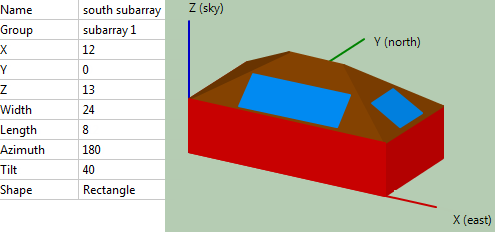
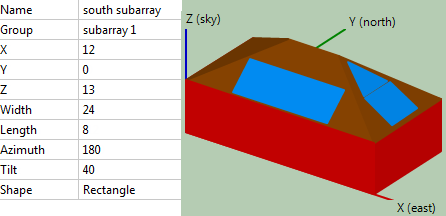
Fix box properties screenshot, and revise active surface property to better explain group name property

diff --git a/vc2013_wx3/shadecalc/help/zoom_index.js b/vc2013_wx3/shadecalc/help/zoom_index.js
@@ -1,15 +1,15 @@
 dictwords = ["scene 0 94 183 1 40 45 2 18 40 3 26 6 4 18 12 5 54 62 7 84 126 8 34 168 10 18 12 12 26 10 13 99 94 14 18 10 15 60 59 16 26 36 17 26 20 18 66 31 20 10 1 21 26 22 23 18 10 24 10 16 25 55 30 26 79 62 27 40 46 28 68 190",
-	"the 0 104 62 1 112 62 2 66 63 3 89 62 4 40 30 5 104 190 6 47 30 7 242 126 8 67 190 9 54 28 10 40 30 11 40 28 12 40 22 13 175 63 14 40 30 15 134 63 16 154 62 17 47 28 18 120 127 19 104 63 20 10 8 21 140 63 22 89 62 23 181 127 24 60 14 25 95 30 26 61 60 27 148 126 28 147 190",
+	"the 0 104 62 1 112 62 2 66 63 3 89 62 4 40 30 5 104 190 6 47 30 7 245 126 8 67 190 9 54 28 10 40 30 11 40 28 12 40 22 13 175 63 14 40 30 15 134 63 16 154 62 17 47 28 18 120 127 19 104 63 20 10 8 21 140 63 22 89 62 23 181 127 24 60 14 25 95 30 26 61 60 27 148 126 28 147 190",
 	"view 0 40 37 1 18 12 3 10 4 4 33 29 5 48 190 6 10 8 7 60 62 9 10 16 10 33 13 13 18 24 14 10 4 15 18 1 16 40 36 18 26 12 20 10 4 21 40 50 22 26 20 24 26 20 25 33 30 26 33 6 27 48 38",
 	"gives 0 10 32 4 10 16 10 10 8",
-	"you 0 18 34 1 40 34 2 33 43 3 18 24 4 26 28 5 10 32 6 10 16 7 60 126 9 10 32 10 18 12 11 26 44 13 47 82 15 10 32 16 54 125 17 10 8 19 26 18 21 47 116 22 10 32 23 60 53 24 10 32 25 26 24 27 47 106 28 10 16",
+	"you 0 18 34 1 40 34 2 33 43 3 18 24 4 26 28 5 10 32 6 10 16 7 60 127 9 10 32 10 18 12 11 26 44 13 47 82 15 10 32 16 54 125 17 10 8 19 26 18 21 47 116 22 10 32 23 60 53 24 10 32 25 26 24 27 47 106 28 10 16",
 	"three-dimensional 0 10 32 5 10 32 18 33 44",
 	"representation 0 10 32 5 10 32",
 	"use 0 10 32 2 10 32 3 10 16 4 10 4 5 26 28 7 26 25 10 10 4 11 10 32 14 18 9 15 18 34 16 33 32 18 27 35 19 26 41 21 33 48 23 74 220 27 41 206 28 10 32",
 	"add 0 10 32 1 34 232 7 10 64 14 18 12 18 26 10 19 10 2 25 41 180 27 10 64",
 	"shading 0 10 32 1 10 16 2 66 47 7 54 90 13 32 197 14 18 5 17 10 16 18 47 62 23 78 55 25 48 165",
-	"and 0 72 62 1 47 30 2 18 36 3 10 16 4 40 15 5 60 28 6 10 16 7 136 127 8 48 30 9 26 160 10 26 6 11 10 8 13 124 127 14 18 5 15 66 30 16 54 46 17 33 170 18 89 62 19 40 60 20 18 6 21 40 42 22 10 2 23 120 111 24 26 24 25 18 6 26 36 56 27 40 26 28 89 252",
-	"active 0 35 58 1 99 255 2 18 10 7 90 112 13 100 127 14 10 4 18 33 22 22 10 16 23 40 60",
+	"and 0 72 62 1 47 30 2 18 36 3 10 16 4 40 15 5 60 28 6 10 16 7 140 127 8 48 30 9 26 160 10 26 6 11 10 8 13 124 127 14 18 5 15 66 30 16 54 46 17 33 170 18 89 62 19 40 60 20 18 6 21 40 42 22 10 2 23 120 111 24 26 24 25 18 6 26 36 56 27 40 26 28 89 252",
+	"active 0 35 58 1 99 255 2 18 10 7 95 112 13 100 127 14 10 4 18 33 22 22 10 16 23 40 60",
 	"surface 0 10 32 1 94 255 2 10 8 7 90 112 13 60 62 14 10 4 18 18 6 23 33 56",
 	"objects 0 33 48 1 40 241 3 10 8 4 18 3 5 18 24 6 10 8 7 40 88 9 26 176 10 18 3 12 10 4 13 40 84 14 47 7 15 10 1 16 54 202 18 60 62 21 47 238 22 26 160 24 33 26 25 40 184 26 10 8 27 26 32 28 10 16",
 	"remove 0 10 16 15 18 1 27 20 2",
@@ -25,7 +25,7 @@ dictwords = ["scene 0 94 183 1 40 45 2 18 40 3 26 6 4 18 12 5 54 62 7 84 126 8 3
 	"properties 0 10 16 1 18 12 5 26 22 6 10 4 7 40 62 16 41 45 21 35 37 22 12 4 24 10 4 25 10 4",
 	"see 0 20 24 1 18 9 2 18 24 5 10 16 7 18 40 16 10 16 18 10 4 21 10 8 25 10 8",
 	"shadows 0 20 24 5 10 16 18 10 4",
-	"surfaces 0 27 10 1 18 18 2 18 8 7 26 100 13 61 51 18 18 20 22 10 16",
+	"surfaces 0 27 10 1 18 18 2 18 8 7 33 100 13 61 51 18 18 20 22 10 16",
 	"total 0 10 8 2 10 2 13 10 32",
 	"shade 0 18 10 1 33 35 2 60 23 3 40 60 7 94 62 8 18 16 9 10 16 11 33 176 12 33 26 13 138 127 14 26 17 18 67 127 19 26 40 20 10 4 23 134 255 25 10 16 27 10 32",
 	"fraction 0 18 10 1 10 16 2 33 7 8 10 8 13 60 47 18 10 4 23 18 17",
@@ -36,7 +36,7 @@ dictwords = ["scene 0 94 183 1 40 45 2 18 40 3 26 6 4 18 12 5 54 62 7 84 126 8 3
 	"angles 0 10 8 5 10 16 7 10 4 8 10 16 23 18 8",
 	"click 0 26 12 1 18 8 2 40 55 5 10 2 6 10 4 8 18 12 9 33 12 11 40 30 13 89 7 16 40 20 17 40 30 21 40 20 22 26 12 23 72 47 24 26 26 25 18 4 26 10 16 27 66 30 28 26 28",
 	"location 0 10 8 8 41 168 13 26 6 14 10 8 15 33 224 18 18 6 19 18 48 20 10 2 23 18 8 27 33 26",
-	"that 0 10 8 1 26 56 3 10 16 7 18 66 12 10 4 13 54 14 17 10 32 18 10 2 21 10 2 23 26 37 25 18 48 27 10 16 28 10 2",
+	"that 0 10 8 1 26 56 3 10 16 7 26 97 12 10 4 13 54 14 17 10 32 18 10 2 21 10 2 23 26 37 25 18 48 27 10 16 28 10 2",
 	"latitude 0 10 8 8 26 26 13 33 22 15 40 28 18 18 18 23 10 8 27 10 16",
 	"longitude 0 10 8 8 26 26 13 33 22 15 40 28 18 18 18 23 10 8 27 10 16",
 	"time 0 10 4 8 41 30 13 33 38 15 33 24 18 18 18 19 10 2 23 10 8 27 10 16",
@@ -47,7 +47,7 @@ dictwords = ["scene 0 94 183 1 40 45 2 18 40 3 26 6 4 18 12 5 54 62 7 84 126 8 3
 	"your 0 18 4 1 10 4 2 10 8 3 10 8 5 18 6 11 10 8 13 40 6 15 18 4 16 28 48 17 10 8 18 10 8 19 33 44 21 28 48 22 12 8 23 18 34 24 10 2 27 18 40 28 33 60",
 	"drag 0 10 4 16 18 8 18 10 4 21 18 4 22 18 20 26 10 4 28 26 28",
 	"hold 0 10 4 28 47 28",
-	"left 0 10 4 7 26 52 15 10 2 16 10 8 26 10 8 27 10 4 28 40 28",
+	"left 0 10 4 7 26 20 15 10 2 16 10 8 26 10 8 27 10 4 28 40 28",
 	"mouse 0 10 4 5 18 6 16 28 48 21 35 52 22 12 8 24 10 2 26 18 36 28 66 60",
 	"button 0 10 4 2 18 20 6 10 4 28 26 12",
 	"rotate 0 18 6 4 10 2 10 10 2 14 10 2 22 42 172 26 10 4",
@@ -72,7 +72,7 @@ dictwords = ["scene 0 94 183 1 40 45 2 18 40 3 26 6 4 18 12 5 54 62 7 84 126 8 3
 	"represents 1 10 32 7 10 4 13 10 32 18 10 16 25 10 32",
 	"photovoltaic 1 18 36 7 18 64 18 33 49 23 10 64 25 10 16",
 	"array 1 26 56 2 10 4 7 26 112 11 10 2 13 56 53 18 40 51 23 40 62 25 18 16",
-	"subarray 1 18 48 7 40 32 23 48 28",
+	"subarray 1 18 48 7 47 32 23 48 28",
 	"can 1 10 32 2 18 40 3 10 8 4 10 4 5 10 32 6 10 16 7 33 99 9 10 32 10 10 4 11 18 36 13 26 80 15 10 1 16 26 96 17 10 8 18 10 32 21 26 96 22 10 32 23 33 112 25 26 24 27 26 104 28 10 16",
 	"many 1 18 40",
 	"like 1 10 32 7 10 1 19 10 4",
@@ -94,7 +94,7 @@ dictwords = ["scene 0 94 183 1 40 45 2 18 40 3 26 6 4 18 12 5 54 62 7 84 126 8 3
 	"large 1 10 16",
 	"roof 1 10 16 6 18 24 7 73 14 18 10 8 25 10 32",
 	"ground-mounted 1 10 16",
-	"consists 1 10 8 8 10 32 18 10 16 23 10 32",
+	"consists 1 10 8 7 10 32 8 10 32 18 10 16 23 10 32",
 	"rows 1 10 8 23 10 2",
 	"modules 1 10 8",
 	"reference 1 10 8 2 10 16 4 10 1 7 18 192 10 10 1 20 26 146 25 10 8 27 10 32",
@@ -107,7 +107,7 @@ dictwords = ["scene 0 94 183 1 40 45 2 18 40 3 26 6 4 18 12 5 54 62 7 84 126 8 3
 	"choose 1 10 8 2 18 6 6 10 4 13 18 5 25 10 4",
 	"list 1 10 8 3 10 8 7 10 64 24 18 8 25 10 2",
 	"origin 1 10 4 7 18 12 16 18 6 25 10 2 28 10 2",
-	"coordinates 1 10 4 7 40 62 8 10 4 13 18 8 15 10 4 16 26 6 25 10 2 27 10 16",
+	"coordinates 1 10 4 7 40 54 8 10 4 13 18 8 15 10 4 16 26 6 25 10 2 27 10 16",
 	"move 1 10 4 4 10 2 10 10 2 14 10 2 16 68 220 21 18 20 24 10 32 25 10 2 26 10 8 28 18 4",
 	"type 1 10 4 6 10 4 7 26 14 8 18 12 13 10 2 16 18 5 17 10 2 21 10 2 27 33 24",
 	"value 1 10 4 16 10 2 21 10 2 22 10 2 27 10 4",
@@ -116,7 +116,7 @@ dictwords = ["scene 0 94 183 1 40 45 2 18 40 3 26 6 4 18 12 5 54 62 7 84 126 8 3
 	"these 1 10 4 18 10 2 26 10 16",
 	"correspond 1 10 4",
 	"array&#39;s 1 10 4",
-	"have 1 10 2 7 10 2 9 10 16 13 26 70 26 10 16",
+	"have 1 10 2 7 18 34 9 10 16 13 26 70 26 10 16",
 	"more 1 10 2 2 26 24 7 18 40 13 26 17 27 10 32",
 	"than 1 10 2 2 10 8 7 10 32 13 18 24",
 	"one 1 10 2 2 26 25 7 33 32 13 26 48 19 18 20 27 10 4",
@@ -125,8 +125,8 @@ dictwords = ["scene 0 94 183 1 40 45 2 18 40 3 26 6 4 18 12 5 54 62 7 84 126 8 3
 	"diurnal 1 10 2 2 26 19 7 18 32 11 12 16 13 68 119 18 10 4 23 34 88",
 	"tables 1 10 2 2 26 19 7 10 32 13 44 86 18 10 32",
 	"assign 1 10 2 15 18 24",
-	"group 1 10 2 2 10 8 7 40 32 13 26 3 23 10 16",
-	"name 1 18 2 6 10 4 7 104 62 13 18 3 17 33 10 19 10 2 23 10 16 24 10 8",
+	"group 1 10 2 2 10 8 7 47 32 13 26 3 23 10 16",
+	"name 1 18 2 6 10 4 7 108 62 13 18 3 17 33 10 19 10 2 23 10 16 24 10 8",
 	"using 1 10 2 5 26 22 19 18 48 26 10 16 27 10 4",
 	"sam 1 10 2 3 18 48 7 10 32 9 10 16 11 10 32 14 10 1 18 35 99 23 119 255",
 	"subarrays 1 18 3 7 10 32 18 18 9 23 54 52",
@@ -233,7 +233,7 @@ dictwords = ["scene 0 94 183 1 40 45 2 18 40 3 26 6 4 18 12 5 54 62 7 84 126 8 3
 	"plane 4 18 6 7 26 28 10 10 2 13 10 8 16 10 2 22 10 32",
 	"zoom 4 10 4 10 10 4 14 10 4 15 18 2 26 41 46 28 42 216",
 	"pan 4 10 4 10 10 4 14 10 4 15 18 2 26 27 42 28 28 168",
-	"image 4 10 2 7 10 4 10 10 4 14 10 8 15 89 47 18 10 8 27 139 254",
+	"image 4 10 2 7 10 2 10 10 4 14 10 8 15 89 47 18 10 8 27 139 254",
 	"underlay 4 10 2 10 10 4 14 10 8 15 40 35 18 10 8 25 10 8 27 80 238",
 	"delete 4 10 2 9 48 186 10 10 2 14 10 1",
 	"copy 4 10 1 9 41 186 10 10 1 11 18 12 14 10 1 23 10 2",
@@ -247,12 +247,12 @@ dictwords = ["scene 0 94 183 1 40 45 2 18 40 3 26 6 4 18 12 5 54 62 7 84 126 8 3
 	"elevation 5 10 16 18 10 8",
 	"seen 5 18 12",
 	"straight 5 10 8",
-	"above 5 10 8 7 18 36 9 18 12 27 10 4",
+	"above 5 10 8 7 18 34 9 18 12 27 10 4",
 	"ground 5 10 8 28 10 32",
 	"adjust 5 18 12",
 	"dimensions 5 10 8 16 10 16 21 10 16",
-	"length 5 10 4 7 78 60 21 33 14 27 10 4 28 10 32",
-	"width 5 10 4 7 33 52 21 33 14 22 10 8",
+	"length 5 10 4 7 78 28 21 33 14 27 10 4 28 10 32",
+	"width 5 10 4 7 33 20 21 33 14 22 10 8",
 	"either 5 18 6 7 10 16 16 10 32 21 10 32 23 10 16 27 10 32",
 	"south 5 10 4 7 33 48 10 10 8",
 	"dimension 5 10 2 7 54 28 16 18 16 21 18 16",
@@ -268,7 +268,7 @@ dictwords = ["scene 0 94 183 1 40 45 2 18 40 3 26 6 4 18 12 5 54 62 7 84 126 8 3
 	"systems 7 10 64",
 	"triangular 7 10 64",
 	"building 7 10 64",
-	"two 7 18 36 13 18 33 27 10 4",
+	"two 7 26 100 13 18 33 27 10 4",
 	"facing 7 18 48",
 	"descriptive 7 40 62",
 	"affect 7 60 62 27 10 32",
@@ -280,16 +280,19 @@ dictwords = ["scene 0 94 183 1 40 45 2 18 40 3 26 6 4 18 12 5 54 62 7 84 126 8 3
 	"generating 7 10 32",
 	"example 7 10 32 19 10 2",
 	"subarray&#39;s 7 18 32",
-	"shown 7 18 36",
+	"shown 7 18 34",
 	"east 7 18 32 15 10 16",
+	"both 7 18 32 23 18 10",
+	"top 7 47 43 21 10 8 23 18 6 27 10 4",
+	"triangle 7 26 48",
+	"bottom 7 66 63 16 10 2",
+	"rectangle 7 18 48 28 10 32",
 	"running 7 10 32",
 	"would 7 18 34",
 	"result 7 10 32",
-	"both 7 10 32 23 18 10",
 	"work 7 10 32 19 10 8 23 10 32 26 10 16",
 	"inputs 7 10 32",
-	"bottom 7 60 63 16 10 2",
-	"corner 7 26 52 16 18 10 27 10 4",
+	"corner 7 26 20 16 18 10 27 10 4",
 	"angle 7 84 30 22 18 16",
 	"180 7 26 16 22 10 8",
 	"degrees 7 33 18 15 18 24 22 10 8",
@@ -299,9 +302,7 @@ dictwords = ["scene 0 94 183 1 40 45 2 18 40 3 26 6 4 18 12 5 54 62 7 84 126 8 3
 	"axis 7 10 16 22 10 8",
 	"due 7 10 16 13 10 16",
 	"has 7 18 16 18 10 16 23 18 16",
-	"rectangle 7 10 16 28 10 32",
-	"triangle 7 18 16",
-	"base 7 54 30 16 10 2",
+	"base 7 54 22 16 10 2",
 	"equal 7 18 16",
 	"solid 7 10 16",
 	"six 7 18 24",
@@ -313,7 +314,7 @@ dictwords = ["scene 0 94 183 1 40 45 2 18 40 3 26 6 4 18 12 5 54 62 7 84 126 8 3
 	"examples 7 10 16",
 	"rotation 7 72 28 22 47 30",
 	"zero 7 47 28",
-	"side 7 40 28",
+	"side 7 40 12",
 	"axes 7 18 12 16 10 4 28 18 48",
 	"used 7 33 14 18 10 32",
 	"render 7 26 14",
@@ -322,7 +323,6 @@ dictwords = ["scene 0 94 183 1 40 45 2 18 40 3 26 6 4 18 12 5 54 62 7 84 126 8 3
 	"only 7 10 8 13 18 48 16 10 32 21 10 32 23 34 52 26 10 2 27 10 32",
 	"false 7 10 8",
 	"true 7 10 8",
-	"top 7 40 11 21 10 8 23 18 6 27 10 4",
 	"useful 7 18 8 15 10 1",
 	"wall 7 10 8",
 	"cylinder 7 55 12 16 10 2 18 10 8 25 10 32",
@@ -332,7 +332,7 @@ dictwords = ["scene 0 94 183 1 40 45 2 18 40 3 26 6 4 18 12 5 54 62 7 84 126 8 3
 	"kinds 7 10 8",
 	"protrusions 7 10 8",
 	"cylindrical 7 26 11",
-	"center 7 18 10 16 18 10 21 10 8 26 10 4 28 20 6",
+	"center 7 18 6 16 18 10 21 10 8 26 10 4 28 20 6",
 	"diameter 7 54 6 21 26 14",
 	"hip 7 10 4",
 	"gabled 7 10 4",

diff --git a/vc2013_wx3/shadecalc/help/create.htm b/vc2013_wx3/shadecalc/help/create.htm
@@ -43,12 +43,12 @@
 <p class="p_Text"><span class="f_Text">An active surface is a surface that is shaded by the shading objects. For photovoltaic systems, the active surface is the photovoltaic array. Active surfaces can be rectangular or triangular in shape.</span></p>
 <p class="p_ImageCaption"><span class="f_ImageCaption">A Building with Two Rectangular Active Surfaces in 3D Scene View </span><br />
 <span class="f_ImageCaption">and Properties of the South Facing Surface</span></p>
-<p class="p_ImageCaption"><img src="ss-properties-active-surface.png" width="495" height="232" alt="ss-properties-active-surface" style="border:none" /></p>
+<p class="p_ImageCaption"><img src="ss-properties-active-surface.png" width="446" height="216" alt="ss-properties-active-surface" style="border:none" /></p>
 <p class="p_Item"><span class="f_Item">Name</span></p>
 <p class="p_Description"><span class="f_Description">Descriptive name for the active surface to help you identify it. Does not affect shade analysis.</span></p>
 <p class="p_Item"><span class="f_Item">Group</span></p>
 <p class="p_Description"><span class="f_Description">For scenes with more than one active surface, the shade analysis will calculate a diurnal table for each named group. For scenes with a single active surface, the group name can be empty. See <a href="generate-data.htm" class="topiclink">Generating shade data</a> for details.</span></p>
-<p class="p_Description"><span class="f_Description">For example, for the scene above, the south subarray's group name is subarray 1 (shown), and the east subarray's group name is subarray 2. <a href="generate-data.htm" class="topiclink">Running a shade analysis</a> on this scene would result in three diurnal shade factor tables: One for the entire array (both subarrays), one for the south subarray, and one for the east subarray. This is designed to work with the subarray inputs in SAM.</span></p>
+<p class="p_Description"><span class="f_Description">For example, for the scene above, the south subarray's group name is subarray 1 (shown), and the east subarray's group name is subarray 2, and it consists of two active surfaces that both have the group name subarray 2: The top triangle and the bottom rectangle. <a href="generate-data.htm" class="topiclink">Running a shade analysis</a> on this scene would result in three diurnal shade factor tables: One for the entire array (both subarrays), one for the south subarray, and one for the east subarray. This is designed to work with the subarray inputs in SAM.</span></p>
 <p class="p_Item"><span class="f_Item">X, Y, Z</span></p>
 <p class="p_Description"><span class="f_Description">The X, Y, and Z coordinates of the bottom left corner of the active surface.</span></p>
 <p class="p_Item"><span class="f_Item">Width</span></p>
@@ -62,7 +62,7 @@
 <h2 class="p_Heading2" style="border-top: none; border-right: none; border-left: none;"><span class="f_Heading2">Box</span></h2>
 <p class="p_Text"><span class="f_Text">A box shading object is a rectangular solid with either six sides or four sides. Use it to represent buildings, chimneys, parapets, enclosures, and other structures.</span></p>
 <p class="p_ImageCaption"><span class="f_ImageCaption">Examples of Box Shading Objects with Properties and in 3D Scene View</span></p>
-<p class="p_ImageCaption"><img src="ss-properties-boxes.png" width="570" height="289" alt="ss-properties-boxes" style="border:none" /></p>
+<p class="p_ImageCaption"><img src="ss-properties-boxes.png" width="400" height="236" alt="ss-properties-boxes" style="border:none" /></p>
 <p class="p_Item"><span class="f_Item">Name</span></p>
 <p class="p_Description"><span class="f_Description">Descriptive name for the box to you identify it. Does not affect shade analysis.</span></p>
 <p class="p_Item"><span class="f_Item">X, Y, Z</span></p>

diff --git a/vc2013_wx3/shadecalc/help/settings.js b/vc2013_wx3/shadecalc/help/settings.js
@@ -25,7 +25,7 @@ var OutputBasewordBufferSize = 0;
 var OutputVariantBufferSize = 0;
 var DictIDLen = 4;
 var NumKeywords = 898;
-var NumVariants = 136;
+var NumVariants = 135;
 var NumPages = 29;
 var DictArrayCount = 0;
 var PageInfoArrayCount = 0;
